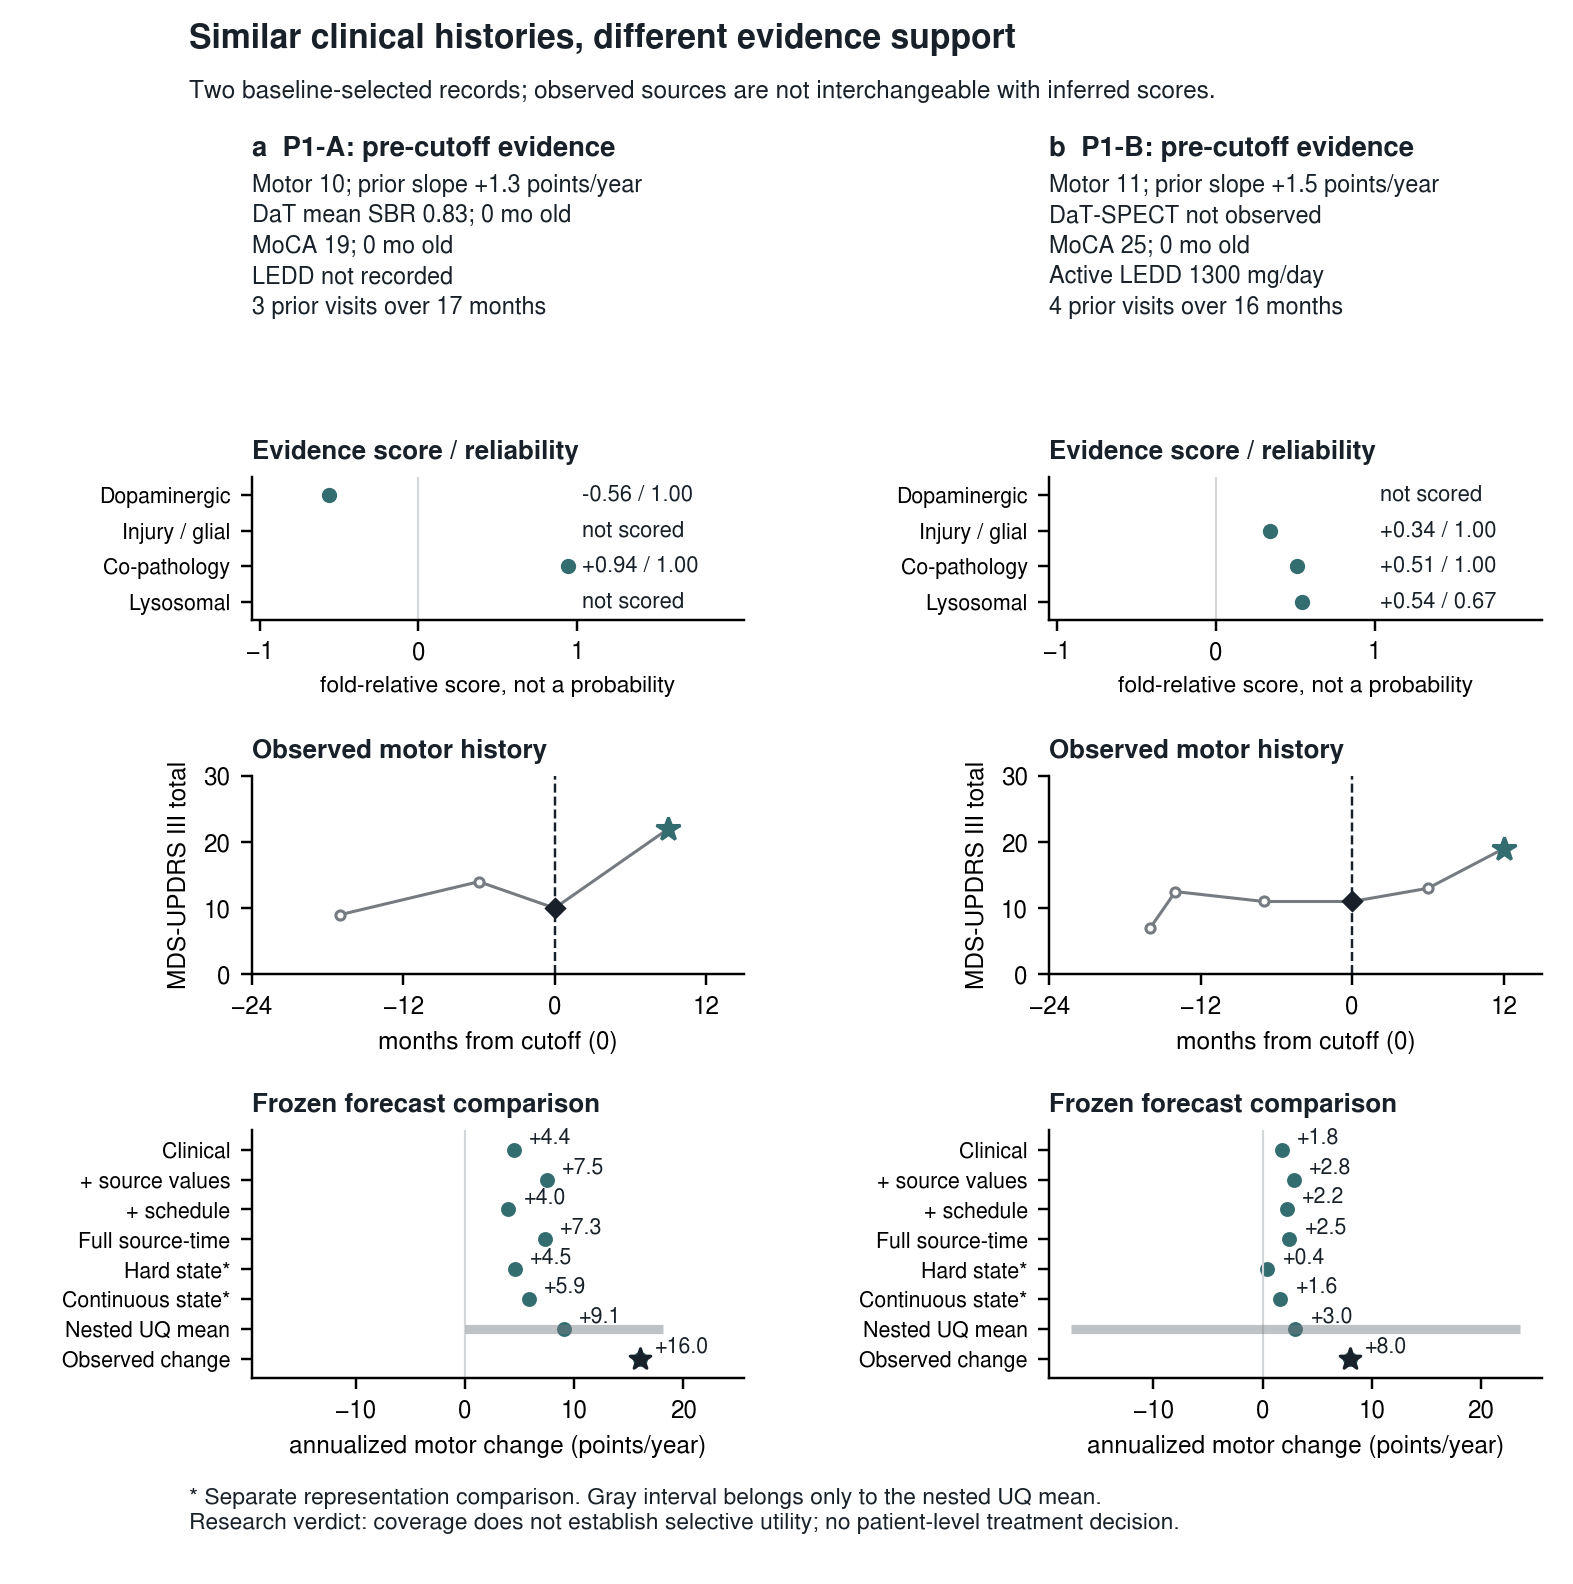
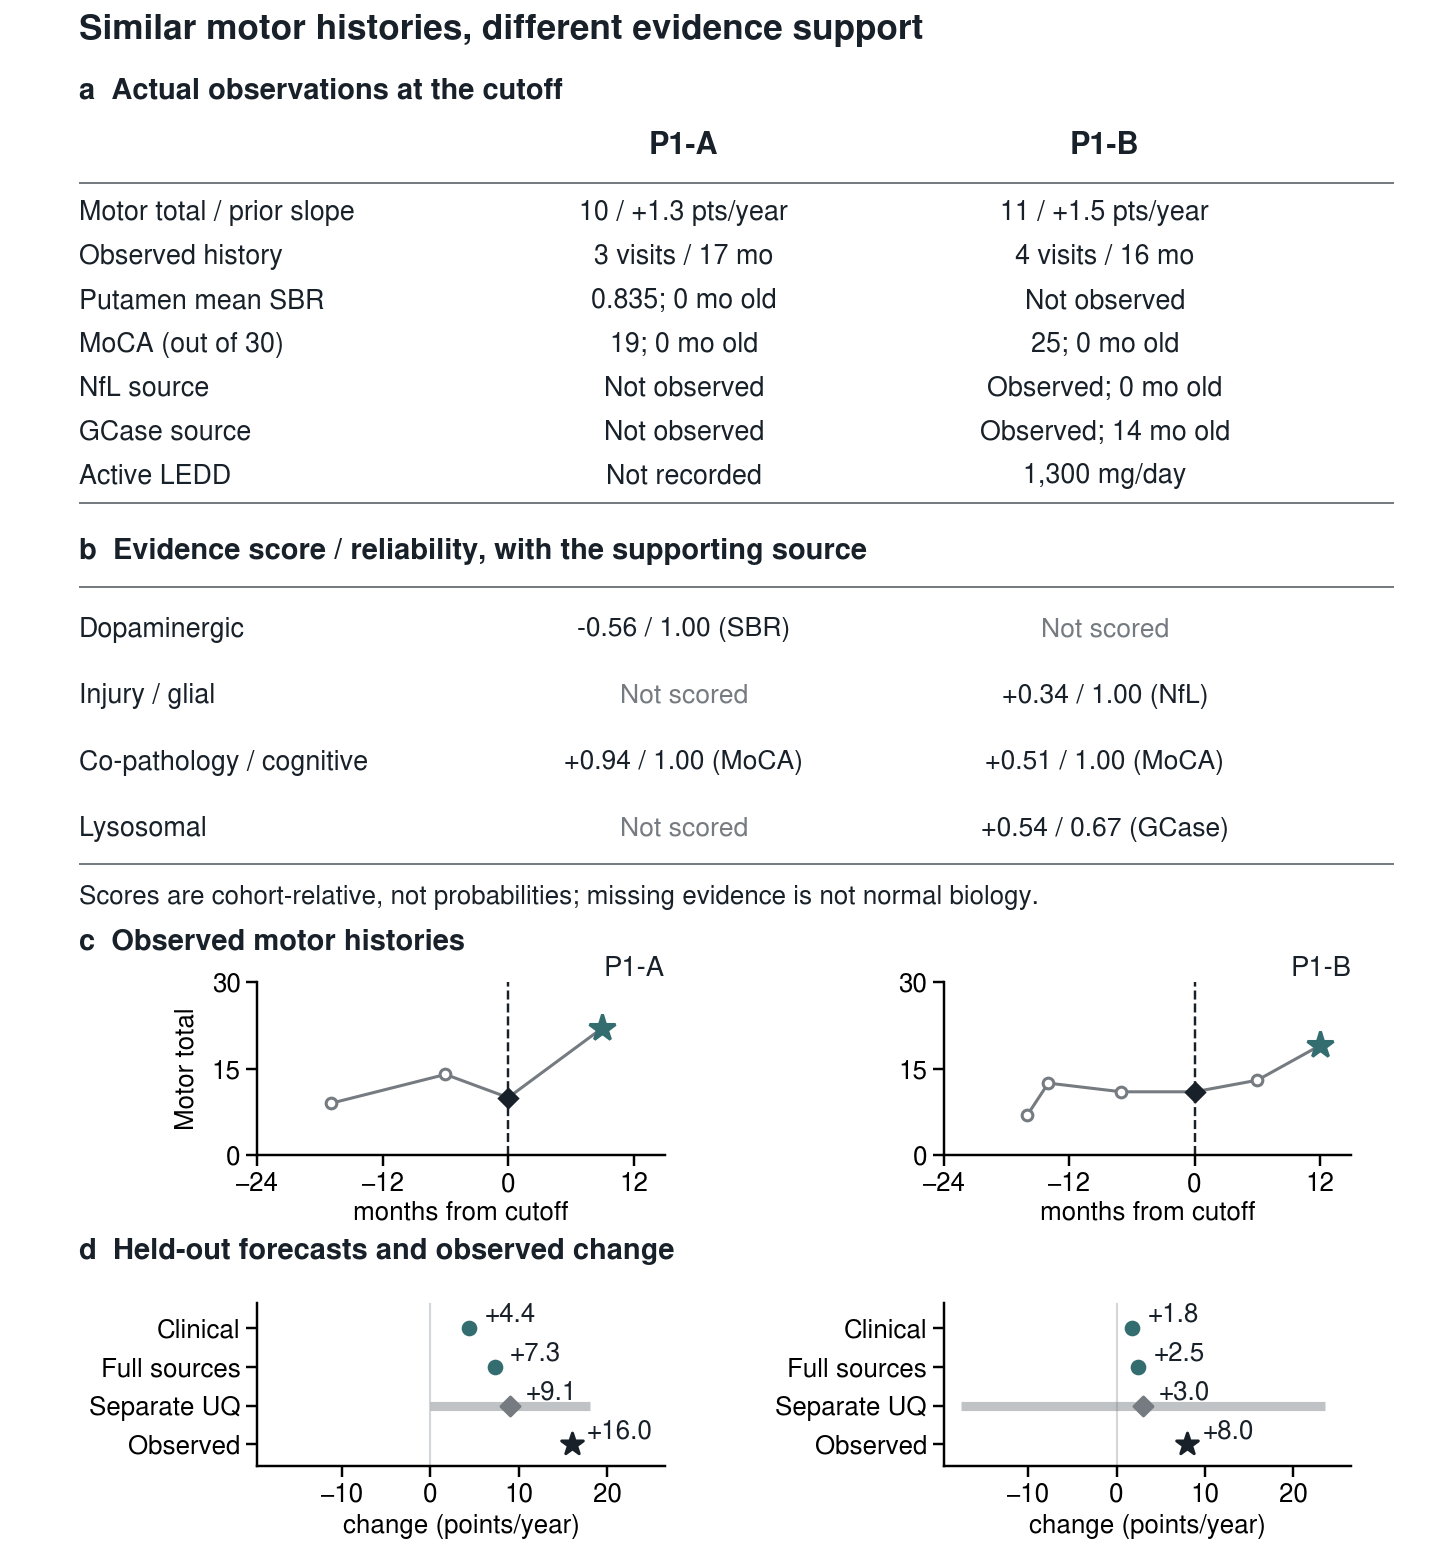
Refine patient-first PD figures and explain measurement roles

diff --git a/static/projects/pd-research-companion/pd-signed-laterality/index.html b/static/projects/pd-research-companion/pd-signed-laterality/index.html
@@ -72,8 +72,23 @@
               or forecast error. A and B are not severity-matched. The fuller selection map follows below.</p>
             <p>Clinical scores, demographics, examination state and LEDD enter the clinical model;
               imaging is added in the comparison models. MoCA, SAA and CSF values are contextual
-              annotations, not inputs to these focused forecasts. CSF percentiles are relative to
+              annotations, not inputs to these focused forecasts. These sources were also examined
+              in separate exploratory context comparisons; those tests did not establish a
+              molecular explanation for the directional differences. CSF percentiles are relative to
               the 32-record illustration pool, not clinical reference ranges.</p>
+            <div class="table-wrap">
+              <table>
+                <caption>Reading the patient's sources across scales</caption>
+                <thead><tr><th scope="col">Measurement</th><th scope="col">Scale and meaning</th><th scope="col">Role here</th></tr></thead>
+                <tbody>
+                  <tr><td>Putamen SBR</td><td>Regional imaging: dopamine-transporter specific-binding ratio</td><td>Mean, magnitude and signed forecast comparisons</td></tr>
+                  <tr><td>Paired motor scores</td><td>Clinical examination: matched left/right MDS-UPDRS III items</td><td>Current state and separately dated future endpoint</td></tr>
+                  <tr><td>LEDD and examination state</td><td>Treatment record: levodopa-equivalent dose and ON/OFF documentation</td><td>Clinical-model inputs, with missingness retained</td></tr>
+                  <tr><td>MoCA</td><td>Clinical cognition: screening score out of 30</td><td>Display and exploratory context, not a forecast input</td></tr>
+                  <tr><td>SAA, CSF alpha-synuclein and NfL</td><td>Fluid biomarkers: seeding assay, protein measurements and neurofilament light</td><td>Display and exploratory context, not causal explanations</td></tr>
+                </tbody>
+              </table>
+            </div>
             <p>The 90% interval and its median belong to a separate conformalized quantile-regression
               model. They must not be attached to the four ridge-model point forecasts. Points on
               the history trace are actual examinations; connecting segments are not measured
@@ -109,8 +124,8 @@
                 <img
                   src="../assets/images/directional_coordinate.png"
                   alt="Atlas-based left and right putamen coordinate linked to contralateral clinical laterality and future side-balance"
-                  width="3848"
-                  height="2635"
+                  width="3792"
+                  height="2833"
                   decoding="async"
                 />
               </div>
@@ -197,8 +212,8 @@
                 <img
                   src="../assets/images/patient_specific_mirror_histories.png"
                   alt="Two de-identified outcome-blind PPMI histories showing mirror-image signed dopaminergic and motor states"
-                  width="3369"
-                  height="2964"
+                  width="2776"
+                  height="3098"
                   loading="lazy"
                   decoding="async"
                 />
@@ -683,7 +698,9 @@
             not live clinical predictions.</p>
           <p class="evidence-footnote">Data: <a href="https://www.ppmi-info.org/">PPMI</a>;
             access to underlying participant data follows the source study's application process.
-            Code is available from the authors on request. Putamen outlines adapt the
+            Code is available from the authors on request; the paper-specific repository is
+            <a href="https://github.com/CVC-Lab/pd-signed-laterality">pd-signed-laterality</a>
+            (access required). Putamen outlines adapt the
             <a href="https://3d.nih.gov/entries/20960/1">NIH 3D Human Reference Atlas
             &quot;Brain, Male&quot; (3DPX-020960), based on the Allen Human Reference Atlas</a>
             under <a href="https://creativecommons.org/licenses/by/4.0/">CC BY 4.0</a>,

diff --git a/static/projects/pd-research-companion/pd-validity-gates/index.html b/static/projects/pd-research-companion/pd-validity-gates/index.html
@@ -53,7 +53,7 @@
           <p class="eyebrow">Actual PPMI records / Baseline-selected comparison</p>
           <h2 id="patient-evidence-title">Motor scores of 10 and 11. Different evidence behind them.</h2>
           <p class="section-intro">P1-A has recent imaging and cognitive measurements; P1-B has no
-            eligible DaT-SPECT value but does have injury and lysosomal assay evidence. A missing
+            eligible DaT-SPECT value but does have NfL and GCase assay evidence. A missing
             measurement is not a normal result. Neither record supports a treatment recommendation.</p>
           <div data-patient-explorer="paper1">
             <p class="evidence-fallback">The two complete measured histories are also available in the
@@ -71,6 +71,19 @@
               relatively greater evidence on that axis. Reliability summarizes available source
               weights, with a 24-month age half-life; it is not the probability of a correct forecast.
               An older source can retain its relative score while losing reliability.</p>
+            <div class="table-wrap">
+              <table>
+                <caption>Measurements behind the evidence coordinates</caption>
+                <thead><tr><th scope="col">Measurement and scale</th><th scope="col">What it contributes</th><th scope="col">Interpretation limit</th></tr></thead>
+                <tbody>
+                  <tr><td>DaT-SPECT SBR: regional imaging</td><td>Specific-binding ratio, used as dopaminergic evidence</td><td>Not a direct count of surviving neurons</td></tr>
+                  <tr><td>MoCA: clinical cognition</td><td>Cognitive screening score out of 30</td><td>Not proof of a specific molecular co-pathology</td></tr>
+                  <tr><td>NfL: fluid biomarker</td><td>Neurofilament light evidence within the injury/glial coordinate</td><td>NfL alone does not establish inflammation</td></tr>
+                  <tr><td>GCase: enzyme assay</td><td>Glucocerebrosidase-related lysosomal evidence</td><td>Not a GBA genotype or a treatment-response test</td></tr>
+                  <tr><td>LEDD: treatment record</td><td>Levodopa-equivalent daily dose and its availability</td><td>An absent record does not mean untreated</td></tr>
+                </tbody>
+              </table>
+            </div>
             <p>The displayed prediction interval belongs only to the separately fitted nested uncertainty
               model, not to the main point forecasts. Valid interval coverage did not establish
               reliable error ranking. The cohort-level selective-uncertainty verdict is ABSTAIN;
@@ -413,7 +426,9 @@
             not live clinical predictions.</p>
           <p class="evidence-footnote">Data: <a href="https://www.ppmi-info.org/">PPMI</a>;
             access to underlying participant data follows the source study's application process.
-            Code is available from the authors on request. Putamen outlines adapt the
+            Code is available from the authors on request; the paper-specific repository is
+            <a href="https://github.com/CVC-Lab/pd-validity-gates">pd-validity-gates</a>
+            (access required). Putamen outlines adapt the
             <a href="https://3d.nih.gov/entries/20960/1">NIH 3D Human Reference Atlas
             &quot;Brain, Male&quot; (3DPX-020960), based on the Allen Human Reference Atlas</a>
             under <a href="https://creativecommons.org/licenses/by/4.0/">CC BY 4.0</a>,

diff --git a/static/projects/pd-research-companion/assets/patient-evidence.css b/static/projects/pd-research-companion/assets/patient-evidence.css
@@ -98,6 +98,9 @@
 .evidence-methods { border-top: 1px solid var(--line); margin-top: 28px; padding-top: 15px; font-size: 14px; max-width: 960px; }
 .evidence-methods summary { cursor: pointer; color: #245b5c; padding: 5px 0; font-weight: 600; }
 .evidence-methods p { max-width: 900px; }
+.evidence-methods table { min-width: 0; table-layout: fixed; }
+.evidence-methods caption { text-align: left; padding-bottom: 12px; font-weight: 600; }
+.evidence-methods th, .evidence-methods td { overflow-wrap: anywhere; }
 .patient-first .research-chain { padding: 0; list-style: none; display: grid; grid-template-columns: repeat(4, minmax(0, 1fr)); gap: 22px; }
 .research-chain li { border-top: 2px solid #bdcacc; padding-top: 12px; font-size: 14px; }
 .research-chain strong { display: block; color: #14222b; margin: 5px 0; }
@@ -117,6 +120,7 @@
   .evidence-cases .evidence-tab { font-size: 13px; }
   .patient-first .research-chain { grid-template-columns: repeat(2, minmax(0, 1fr)); }
   .evidence-record-title { flex-wrap: wrap; gap: 0 12px; }
+  .evidence-methods th, .evidence-methods td { padding: 10px 6px; font-size: 13px; }
 }
 @media (prefers-reduced-motion: reduce) {
   .patient-first * { scroll-behavior: auto !important; transition: none !important; }

diff --git a/static/projects/pd-research-companion/assets/patient-evidence-data.js b/static/projects/pd-research-companion/assets/patient-evidence-data.js
@@ -12,13 +12,13 @@ window.PD_PATIENT_EVIDENCE = {
           "name": "DaT-SPECT mean putamen SBR",
           "value": 0.835,
           "age": 0.0,
-          "role": "Observed source"
+          "role": "Dated source"
         },
         {
           "name": "MoCA (out of 30)",
           "value": 19.0,
           "age": 0.0,
-          "role": "Observed source"
+          "role": "Dated source"
         },
         {
           "name": "LEDD (mg/day)",
@@ -125,13 +125,13 @@ window.PD_PATIENT_EVIDENCE = {
           "name": "DaT-SPECT mean putamen SBR",
           "value": null,
           "age": null,
-          "role": "Observed source"
+          "role": "Dated source"
         },
         {
           "name": "MoCA (out of 30)",
           "value": 25.0,
           "age": 0.0,
-          "role": "Observed source"
+          "role": "Dated source"
         },
         {
           "name": "LEDD (mg/day)",

diff --git a/scripts/build_pd_patient_evidence.py b/scripts/build_pd_patient_evidence.py
@@ -68,8 +68,8 @@ def paper1():
         history = history[history.relative.between(-24, 0)].dropna(subset=["NP3TOT"])
         history = history.groupby("relative", as_index=False).NP3TOT.median().sort_values("relative")
         assert np.isclose(history[history.relative.eq(0)].NP3TOT.iloc[0], row.last_np3)
-        sources = [source("DaT-SPECT mean putamen SBR", number(row.dat_putamen_mean_sbr, 3), row.dat_gap_months, "Observed source"),
-                   source("MoCA (out of 30)", number(row.moca_total, 0), row.moca_gap_months, "Observed source"),
+        sources = [source("DaT-SPECT mean putamen SBR", number(row.dat_putamen_mean_sbr, 3), row.dat_gap_months, "Dated source"),
+                   source("MoCA (out of 30)", number(row.moca_total, 0), row.moca_gap_months, "Dated source"),
                    source("LEDD (mg/day)", number(row.ledd_active_at_cutoff, 0), np.nan, "Treatment context")]
         molecular = molecules[molecules.case.eq(row.case)].set_index("field")
         for key, label in [("mol_nfl", "NfL"), ("mol_gcase_activity", "GCase")]:

diff --git a/scripts/test_pd_companion_browser.py b/scripts/test_pd_companion_browser.py
@@ -29,6 +29,13 @@ def main():
                     assert "cohort-level" in verdict.inner_text()
                     assert "not diagnoses" in verdict.inner_text()
                 page.screenshot(path=str(SHOTS / (name + "-" + str(width) + "-top.png")))
+                glossary = page.locator("details.evidence-methods")
+                glossary.locator("summary").click()
+                assert glossary.locator("table tbody tr").count() == 5
+                assert glossary.locator(".table-wrap").evaluate("(el) => el.scrollWidth <= el.clientWidth + 1"), "Clipped source glossary"
+                assert page.locator("body").evaluate("(el) => el.scrollWidth <= innerWidth"), "Glossary overflow"
+                glossary.screenshot(path=str(SHOTS / (name + "-" + str(width) + "-glossary.png")))
+                glossary.locator("summary").click()
                 explorer.screenshot(path=str(SHOTS / (name + "-" + str(width) + "-measured.png")))
                 for tab in explorer.locator("[data-record]").all():
                     tab.click()

diff --git a/scripts/test_pd_companion_data.py b/scripts/test_pd_companion_data.py
@@ -111,6 +111,17 @@ class CompanionTests(unittest.TestCase):
                     self.assertIn(parsed.fragment, Page(target).ids, (path.name, link))
             self.assertTrue(all(img.get("alt") for img in page.images))
 
+    def test_source_glossaries_and_repository_access_are_explicit(self):
+        for slug in ["pd-validity-gates", "pd-signed-laterality"]:
+            source = (SITE / slug / "index.html").read_text()
+            self.assertIn("access required", source)
+            self.assertIn("https://github.com/CVC-Lab/" + slug, source)
+            self.assertIn("available from the authors on request", source)
+            self.assertIn("<caption>", source)
+        laterality = (SITE / "pd-signed-laterality/index.html").read_text()
+        self.assertIn("separate exploratory context comparisons", laterality)
+        self.assertIn("not inputs to these focused forecasts", laterality)
+
 
 if __name__ == "__main__":
     unittest.main()
